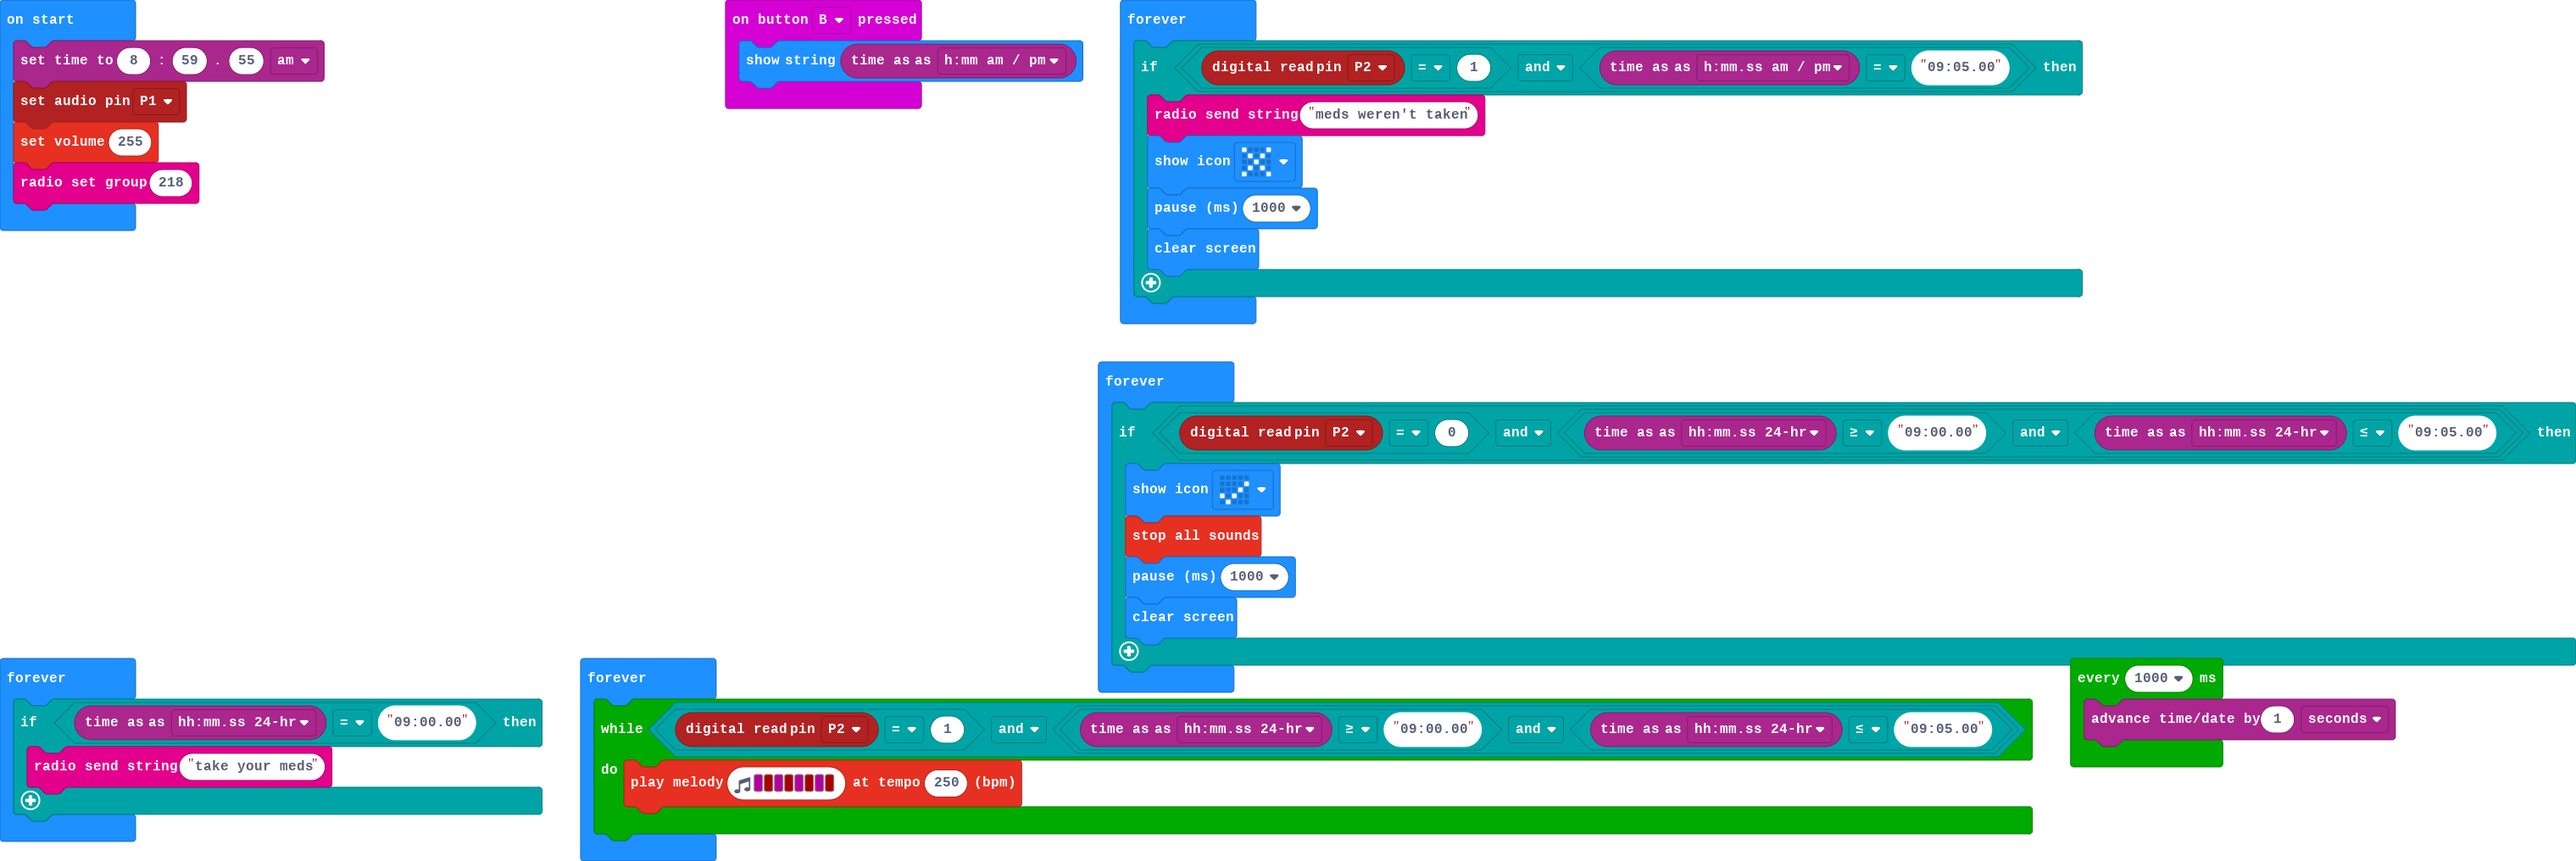
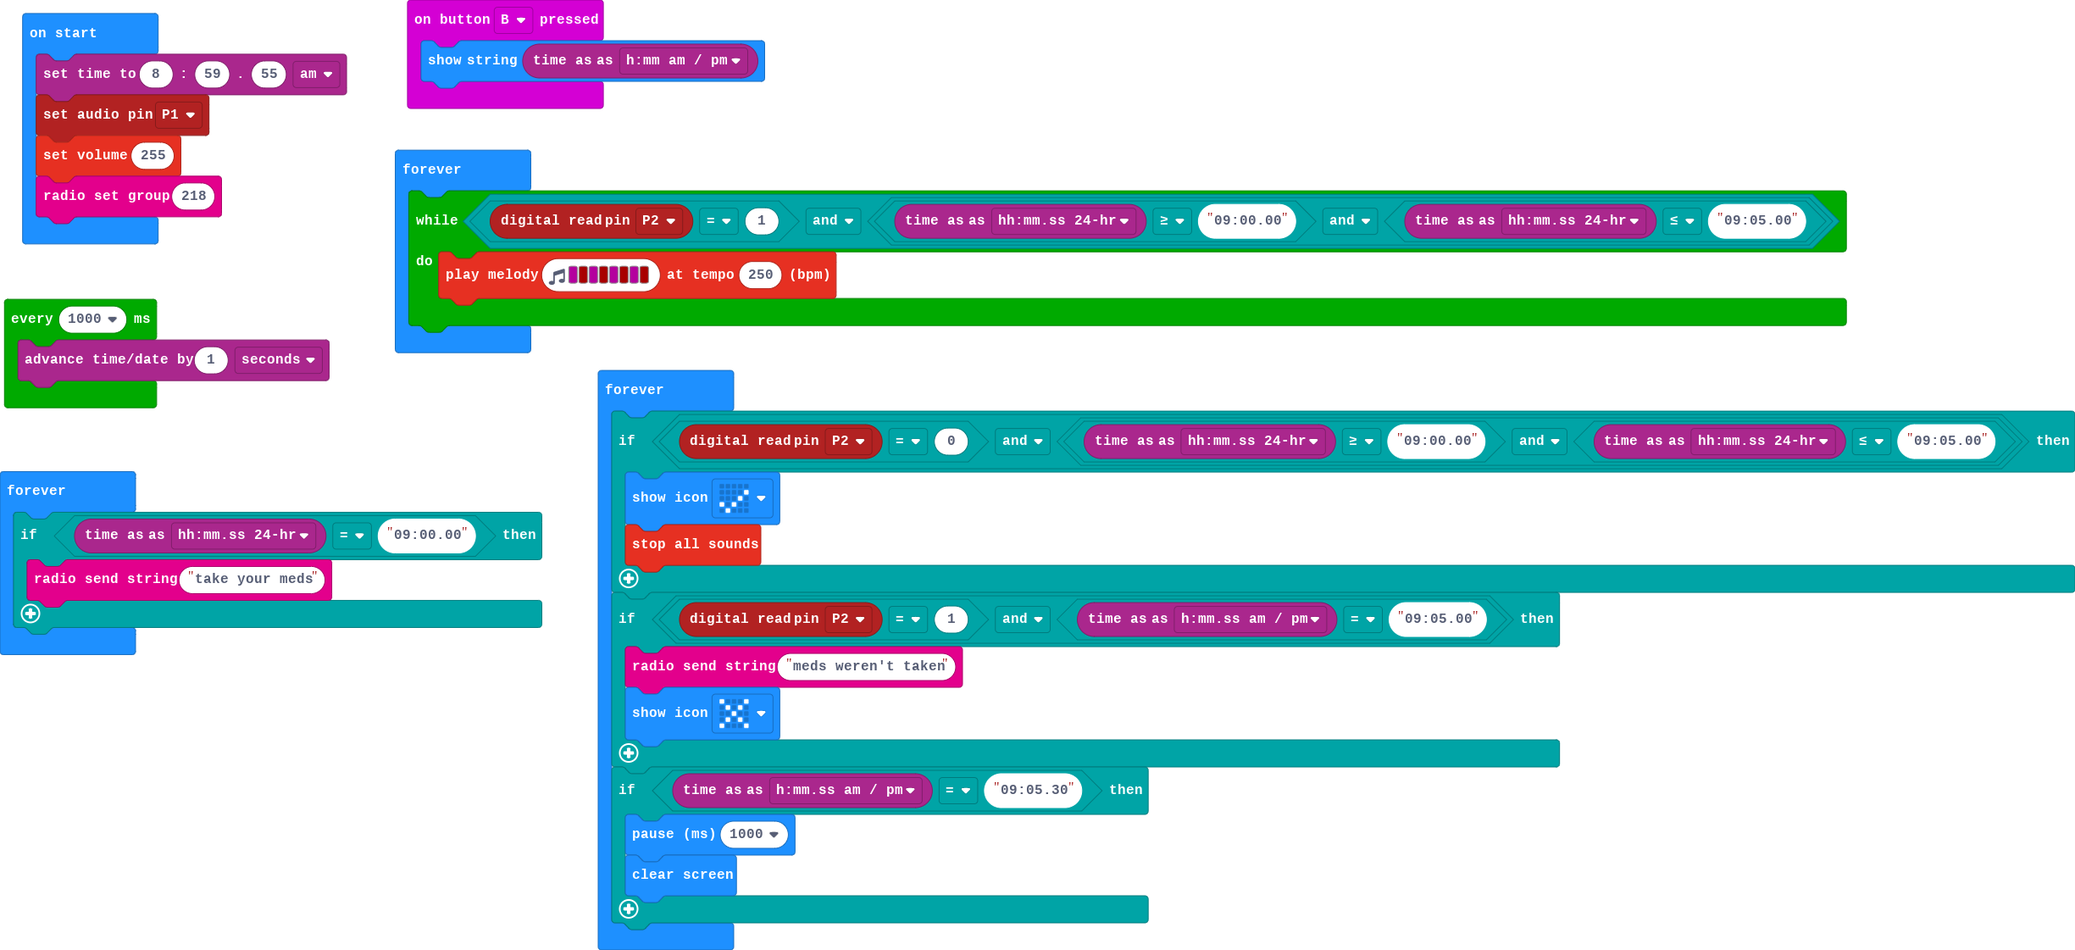
Update pxt.json, main.blocks, main.ts

diff --git a/main.ts b/main.ts
@@ -9,17 +9,20 @@ loops.everyInterval(1000, function () {
     timeanddate.advanceBy(1, timeanddate.TimeUnit.Seconds)
 })
 basic.forever(function () {
-    if (pins.digitalReadPin(DigitalPin.P2) == 1 && timeanddate.time(timeanddate.TimeFormat.HMMSSAMPM) == "09:05.00") {
-        radio.sendString("meds weren't taken")
-        basic.showIcon(IconNames.No)
-        basic.pause(1000)
-        basic.clearScreen()
+    while (pins.digitalReadPin(DigitalPin.P2) == 1 && (timeanddate.time(timeanddate.TimeFormat.HHMMSS24hr) >= "09:00.00" && timeanddate.time(timeanddate.TimeFormat.HHMMSS24hr) <= "09:05.00")) {
+        music.playMelody("C C5 C C5 C C5 C C5 ", 250)
     }
 })
 basic.forever(function () {
     if (pins.digitalReadPin(DigitalPin.P2) == 0 && (timeanddate.time(timeanddate.TimeFormat.HHMMSS24hr) >= "09:00.00" && timeanddate.time(timeanddate.TimeFormat.HHMMSS24hr) <= "09:05.00")) {
         basic.showIcon(IconNames.Yes)
         music.stopAllSounds()
+    }
+    if (pins.digitalReadPin(DigitalPin.P2) == 1 && timeanddate.time(timeanddate.TimeFormat.HMMSSAMPM) == "09:05.00") {
+        radio.sendString("meds weren't taken")
+        basic.showIcon(IconNames.No)
+    }
+    if (timeanddate.time(timeanddate.TimeFormat.HMMSSAMPM) == "09:05.30") {
         basic.pause(1000)
         basic.clearScreen()
     }
@@ -27,10 +30,5 @@ basic.forever(function () {
 basic.forever(function () {
     if (timeanddate.time(timeanddate.TimeFormat.HHMMSS24hr) == "09:00.00") {
         radio.sendString("take your meds")
-    }
-})
-basic.forever(function () {
-    while (pins.digitalReadPin(DigitalPin.P2) == 1 && (timeanddate.time(timeanddate.TimeFormat.HHMMSS24hr) >= "09:00.00" && timeanddate.time(timeanddate.TimeFormat.HHMMSS24hr) <= "09:05.00")) {
-        music.playMelody("C C5 C C5 C C5 C C5 ", 250)
     }
 })
